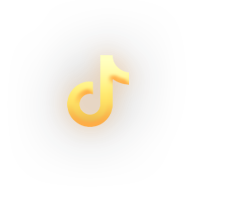
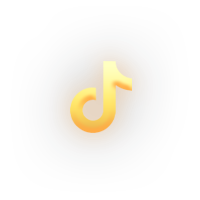
gestion correcte affichage hover boutons

Changed region(s): [[0.27, 0.24, 0.69, 0.69]]

diff --git a/src/main/java/fr/pixelmonworld/panels/buttons/ButtonsPanel.java b/src/main/java/fr/pixelmonworld/panels/buttons/ButtonsPanel.java
@@ -3,6 +3,7 @@ package fr.pixelmonworld.panels.buttons;
 import fr.pixelmonworld.domain.DefaultLauncherPanel;
 
 import javax.swing.*;
+import java.awt.*;
 import java.awt.image.BufferedImage;
 import java.io.IOException;
 
@@ -16,8 +17,8 @@ public class ButtonsPanel extends DefaultLauncherPanel {
     private BufferedImage discordTextImage = getBufferedImage("discord_text.png");
     private BufferedImage discordLogoImage = getBufferedImage("discord_logo.png");
 
-    public ButtonsPanel(int width, int height, int x, int y) throws IOException {
-        super(width, height, x, y);
+    public ButtonsPanel(Component parent, int width, int height, int x, int y) throws IOException {
+        super(parent, width, height, x, y);
 
         // Ajout du logo d'erreur
         this.add(genererImage(60, new ImageIcon(errorLogoImage)));
@@ -26,7 +27,7 @@ public class ButtonsPanel extends DefaultLauncherPanel {
         this.add(genererImage(160, new ImageIcon(errorTextImage)));
 
         // Ajout du bouton Update Java
-        this.add(new JavaButton(this.getWidth(), 235));
+        this.add(new JavaButton(this, 235));
 
         // Ajout du logo discord
         this.add(genererImage(360, new ImageIcon(discordLogoImage)));
@@ -35,11 +36,11 @@ public class ButtonsPanel extends DefaultLauncherPanel {
         this.add(genererImage(460, new ImageIcon(discordTextImage)));
 
         // Ajout du bouton Discord
-        this.add(new DiscordButton(this.getWidth(), 535));
+        this.add(new DiscordButton(this, 535));
 
-        this.add(new TikTokButton(this.getWidth(), 635));
-        this.add(new YoutubeButton(this.getWidth(), 635));
-        this.add(new TwitterButton(this.getWidth(), 635));
+        this.add(new TikTokButton(this, 635));
+        this.add(new YoutubeButton(this, 635));
+        this.add(new TwitterButton(this, 635));
     }
 
 }

diff --git a/src/main/java/fr/pixelmonworld/panels/connexion/ConnexionButton.java b/src/main/java/fr/pixelmonworld/panels/connexion/ConnexionButton.java
@@ -6,6 +6,7 @@ import fr.pixelmonworld.utils.MicrosoftThread;
 import fr.pixelmonworld.utils.MinecraftThread;
 import fr.theshark34.swinger.event.SwingerEvent;
 
+import java.awt.*;
 import java.io.IOException;
 
 import static fr.pixelmonworld.utils.ImagesSelector.getBufferedImage;
@@ -13,11 +14,9 @@ import static fr.pixelmonworld.utils.ImagesSelector.getBufferedImage;
 public class ConnexionButton extends DefaultLauncherButton {
 
     boolean microsoftAuth;
-    ConnexionPanel parent;
 
-    public ConnexionButton(int parentWidth, int y, ConnexionPanel parent) throws IOException {
-        super(parentWidth, y, getBufferedImage("microsoft_button.png"));
-        this.parent = parent;
+    public ConnexionButton(Component parent, int y) throws IOException {
+        super(parent, y, getBufferedImage("microsoft_button.png"));
         microsoftAuth = Launcher.defaultAuth();
         if (microsoftAuth) {
             this.setTexture(getBufferedImage("minecraft_button.png"));
@@ -38,11 +37,5 @@ public class ConnexionButton extends DefaultLauncherButton {
     public void update() throws IOException {
         this.microsoftAuth = true;
         this.setTexture(getBufferedImage("minecraft_button.png"));
-    }
-
-    @Override
-    public void repaint() {
-        super.repaint();
-        if (this.parent != null) this.parent.repaint();
     }
 }

diff --git a/src/main/java/fr/pixelmonworld/domain/DefaultLauncherButton.java b/src/main/java/fr/pixelmonworld/domain/DefaultLauncherButton.java
@@ -9,9 +9,12 @@ import java.awt.image.BufferedImage;
 
 public class DefaultLauncherButton extends STexturedButton implements SwingerEventListener {
 
-    public DefaultLauncherButton(int parentWidth, int y, BufferedImage texture) {
+    Component parent;
+
+    public DefaultLauncherButton(Component parent, int y, BufferedImage texture) {
         super(texture, texture);
-        this.setBounds(parentWidth / 2 - texture.getWidth() / 2, y - texture.getHeight() / 2, texture.getWidth(), texture.getHeight());
+        this.parent = parent;
+        this.setBounds(parent.getWidth() / 2 - texture.getWidth() / 2, y - texture.getHeight() / 2, texture.getWidth(), texture.getHeight());
         this.addEventListener(this);
         this.setCursor(Cursor.getPredefinedCursor(Cursor.HAND_CURSOR));
     }
@@ -23,5 +26,11 @@ public class DefaultLauncherButton extends STexturedButton implements SwingerEve
     public void setTexture(Image texture) {
         super.setTexture(texture);
         super.setTextureHover(texture);
+    }
+
+    @Override
+    public void repaint() {
+        super.repaint();
+        if (this.parent != null) this.parent.repaint();
     }
 }

diff --git a/src/main/java/fr/pixelmonworld/panels/connexion/ConnexionPanel.java b/src/main/java/fr/pixelmonworld/panels/connexion/ConnexionPanel.java
@@ -1,27 +1,18 @@
 package fr.pixelmonworld.panels.connexion;
 
-import fr.pixelmonworld.LauncherPanel;
 import fr.pixelmonworld.domain.DefaultLauncherPanel;
 
+import java.awt.*;
 import java.io.IOException;
 
 public class ConnexionPanel extends DefaultLauncherPanel {
 
     ConnexionButton connexionButton;
-    LauncherPanel parent;
 
-    public ConnexionPanel(int width, int height, int x, int y, LauncherPanel parent) throws IOException {
-        super(width, height, x, y);
-
-        this.parent = parent;
+    public ConnexionPanel(Component parent, int width, int height, int x, int y) throws IOException {
+        super(parent, width, height, x, y);
 
         // Ajout du bouton de connexion
-        this.add(connexionButton = new ConnexionButton(this.getWidth(), this.getHeight() / 2, this));
-    }
-
-    @Override
-    public void repaint() {
-        super.repaint();
-        if (this.parent != null) this.parent.repaint();
+        this.add(connexionButton = new ConnexionButton(this, this.getHeight() / 2));
     }
 }

diff --git a/src/main/java/fr/pixelmonworld/Launcher.java b/src/main/java/fr/pixelmonworld/Launcher.java
@@ -36,7 +36,6 @@ public class Launcher {
 
     private static Path path = gameInfos.getGameDir();
     private static File crashFile = new File(String.valueOf(path), "crashed");
-
     private static CrashReporter reporter = new CrashReporter(String.valueOf(crashFile), path);
     private static AuthInfos authInfos;
     private static LauncherPanel launcherPanel;
@@ -184,7 +183,7 @@ public class Launcher {
 
     public static void showDialog(TypeMessage message) throws IOException {
 //        JOptionPane.showMessageDialog(null, message, "Information", JOptionPane.INFORMATION_MESSAGE);
-        launcherPanel.add(infosPanel = new InfosPanel(600, 400, launcherPanel.getWidth() / 2, launcherPanel.getHeight() / 2, message), 0);
+        launcherPanel.add(infosPanel = new InfosPanel(launcherPanel, 600, 400, launcherPanel.getWidth() / 2, launcherPanel.getHeight() / 2, message), 0);
         launcherPanel.repaint();
     }
 

diff --git a/src/main/java/fr/pixelmonworld/domain/DefaultLauncherPanel.java b/src/main/java/fr/pixelmonworld/domain/DefaultLauncherPanel.java
@@ -4,10 +4,15 @@ import javax.swing.*;
 import java.awt.*;
 
 public class DefaultLauncherPanel extends JPanel {
-    public DefaultLauncherPanel(int width, int height, int x, int y) {
+
+    Component parent;
+
+    public DefaultLauncherPanel(Component parent, int width, int height, int x, int y) {
         this.setLayout(null);
         this.setBackground(new Color(1.0f,1.0f,1.0f,0.0f));
         this.setBounds(x, y, width, height);
+
+        this.parent = parent;
     }
 
     @Override
@@ -27,5 +32,11 @@ public class DefaultLauncherPanel extends JPanel {
         result.setOpaque(true);
         result.setBackground(Color.GREEN);
         return result;
+    }
+
+    @Override
+    public void repaint() {
+        super.repaint();
+        if (this.parent != null) this.parent.repaint();
     }
 }

diff --git a/src/main/java/fr/pixelmonworld/LauncherPanel.java b/src/main/java/fr/pixelmonworld/LauncherPanel.java
@@ -29,13 +29,13 @@ public class LauncherPanel extends JPanel {
         logo.setBounds(560, 0, logoIcon.getIconWidth(), logoIcon.getIconHeight());
         this.add(logo);
 
-        JPanel buttonsPanel = new ButtonsPanel(483, 702, 1408, 249);
+        JPanel buttonsPanel = new ButtonsPanel(this, 483, 702, 1408, 249);
         this.add(buttonsPanel);
 
-        JPanel connexionPanel = new ConnexionPanel(483, 271, 1408, 976, this);
+        JPanel connexionPanel = new ConnexionPanel(this, 483, 271, 1408, 976);
         this.add(connexionPanel);
 
-        JPanel ramPanel = new RamPanel(954, 165, 257, 1100);
+        JPanel ramPanel = new RamPanel(this, 954, 165, 257, 1100);
         this.add(ramPanel);
 
         // Ajout du background

diff --git a/src/main/java/fr/pixelmonworld/panels/InfosPanel.java b/src/main/java/fr/pixelmonworld/panels/InfosPanel.java
@@ -17,8 +17,8 @@ public class InfosPanel extends DefaultLauncherPanel {
     private BufferedImage defaultTextImage = getBufferedImage("discord_logo.png");
     private final ImageIcon backgroundIcon = new ImageIcon(Objects.requireNonNull(getBufferedImage("infos_panel_background.png")));
 
-    public InfosPanel(int width, int height, int x, int y, TypeMessage message) throws IOException {
-        super(width, height, x - width / 2, y - height / 2);
+    public InfosPanel(Component parent, int width, int height, int x, int y, TypeMessage message) throws IOException {
+        super(parent, width, height, x - width / 2, y - height / 2);
         this.setLayout(new BorderLayout());
 
 //

diff --git a/src/main/java/fr/pixelmonworld/panels/ram/RamPanel.java b/src/main/java/fr/pixelmonworld/panels/ram/RamPanel.java
@@ -19,8 +19,8 @@ public class RamPanel extends DefaultLauncherPanel implements SwingerEventListen
     private STexturedButton plus;
     private JLabel background;
 
-    public RamPanel(int width, int height, int x, int y) throws IOException {
-        super(width, height, x, y);
+    public RamPanel(Component parent, int width, int height, int x, int y) throws IOException {
+        super(parent, width, height, x, y);
 
         moins = new STexturedButton(getBufferedImage("fill.png"), getBufferedImage("fill.png"));
         moins.setBounds(400, 20, 40, 40);

diff --git a/src/main/java/fr/pixelmonworld/panels/buttons/TwitterButton.java b/src/main/java/fr/pixelmonworld/panels/buttons/TwitterButton.java
@@ -10,8 +10,8 @@ import java.net.URI;
 import static fr.pixelmonworld.utils.ImagesSelector.getBufferedImage;
 
 public class TwitterButton extends DefaultLauncherButton {
-    public TwitterButton(int parentWidth, int y) throws IOException {
-        super(parentWidth, y, getBufferedImage("twitter_button.png"));
+    public TwitterButton(Component parent, int y) throws IOException {
+        super(parent, y, getBufferedImage("twitter_button.png"));
         this.setBounds(this.getX() + this.getX() / 2, this.getY(), this.getWidth(), this.getHeight());
     }
 

diff --git a/src/main/java/fr/pixelmonworld/panels/buttons/TikTokButton.java b/src/main/java/fr/pixelmonworld/panels/buttons/TikTokButton.java
@@ -11,8 +11,8 @@ import static fr.pixelmonworld.utils.ImagesSelector.getBufferedImage;
 
 public class TikTokButton extends DefaultLauncherButton {
 
-    public TikTokButton(int parentWidth, int y) throws IOException {
-        super(parentWidth, y, getBufferedImage("tiktok_button.png"));
+    public TikTokButton(Component parent, int y) throws IOException {
+        super(parent, y, getBufferedImage("tiktok_button.png"));
         this.setBounds(this.getX() / 2, this.getY(), this.getWidth(), this.getHeight());
     }
 

diff --git a/src/main/java/fr/pixelmonworld/panels/buttons/YoutubeButton.java b/src/main/java/fr/pixelmonworld/panels/buttons/YoutubeButton.java
@@ -10,8 +10,8 @@ import java.net.URI;
 import static fr.pixelmonworld.utils.ImagesSelector.getBufferedImage;
 
 public class YoutubeButton extends DefaultLauncherButton {
-    public YoutubeButton(int parentWidth, int y) throws IOException {
-        super(parentWidth, y, getBufferedImage("youtube_button.png"));
+    public YoutubeButton(Component parent, int y) throws IOException {
+        super(parent, y, getBufferedImage("youtube_button.png"));
     }
 
     @Override
